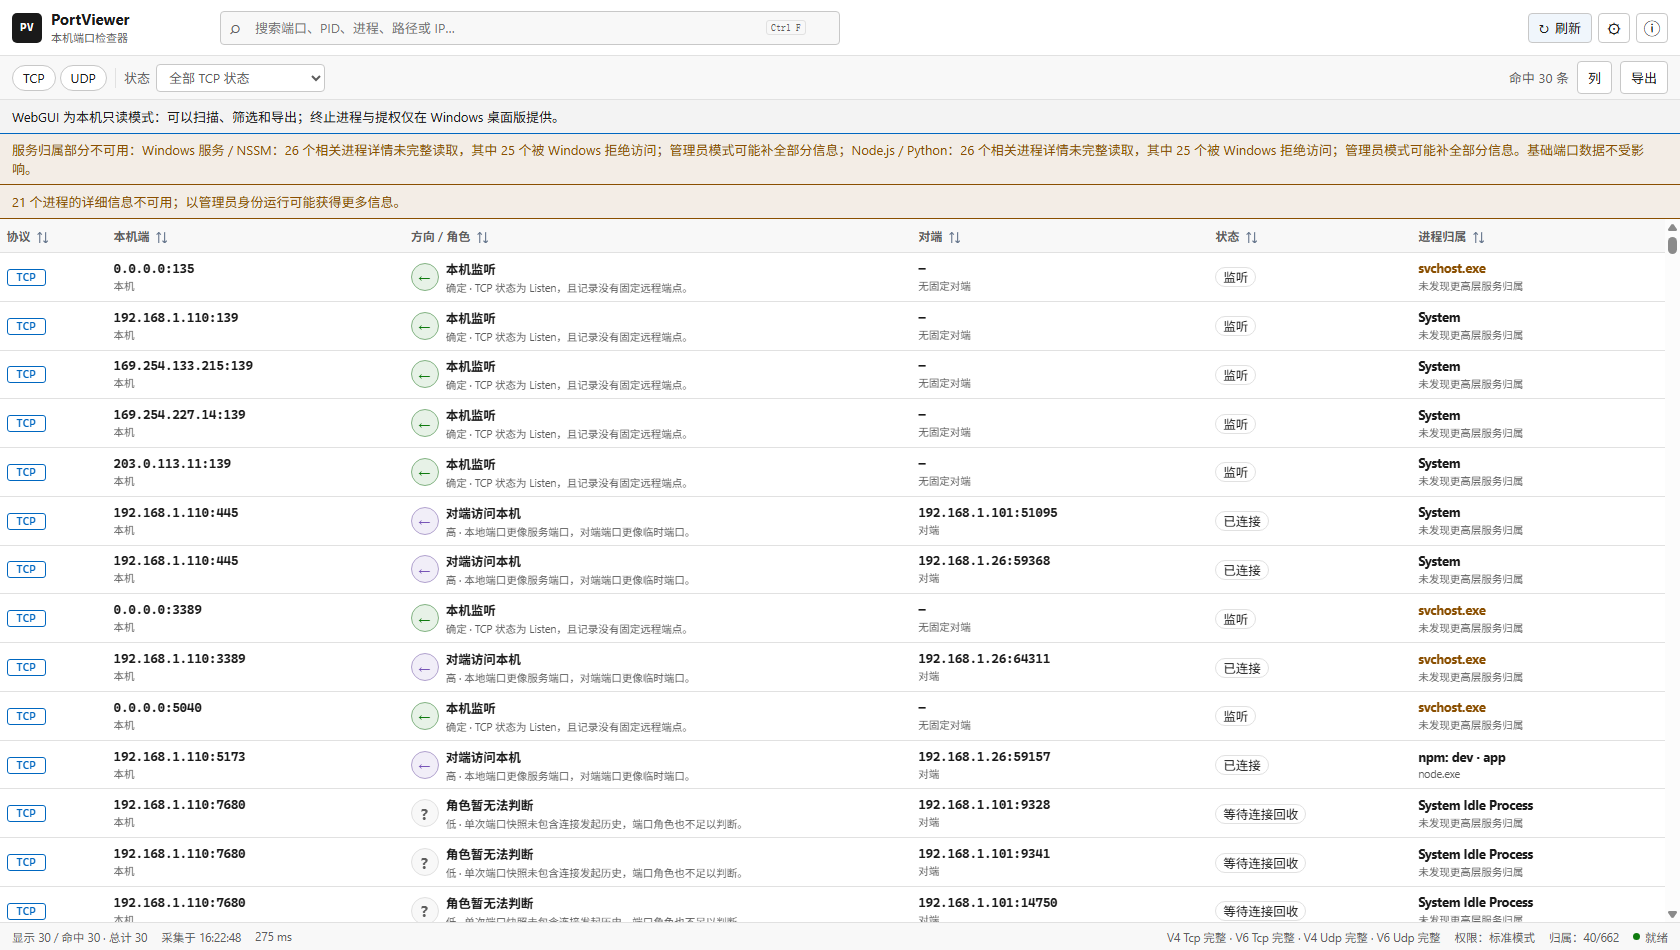
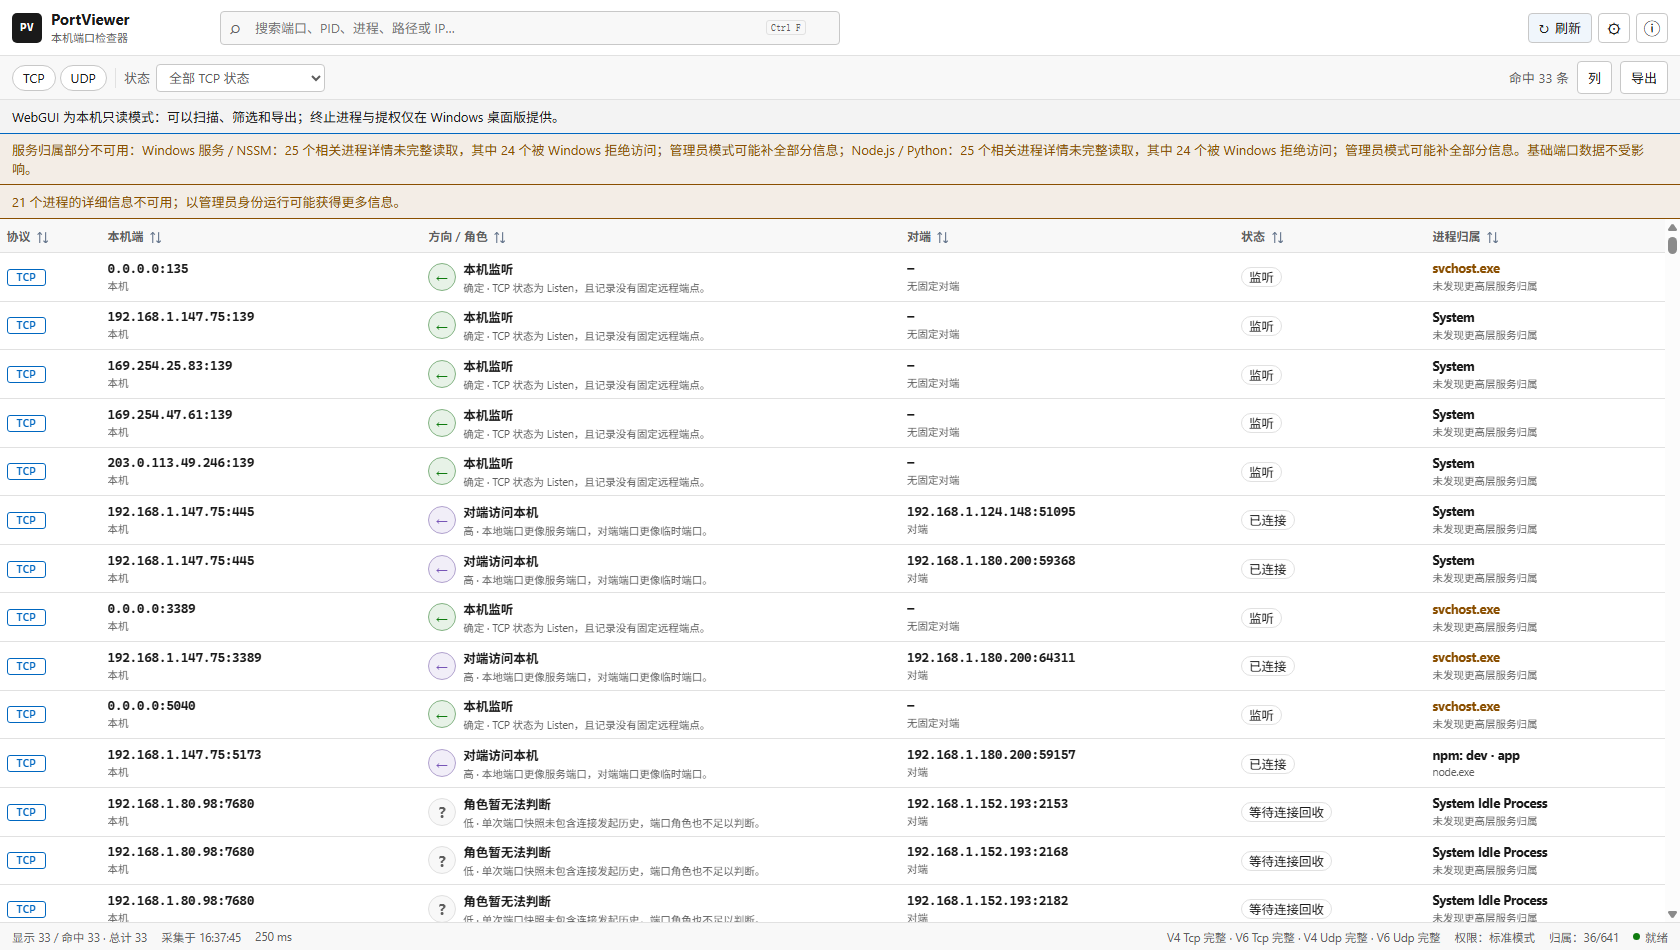
chore(public): 净化快照同步自 main@b79a01a
来源: main b79a01a9e5884f2b7e5deae1aa0d1b8f01632f78
剔除: docs/design docs/product docs/architecture docs/qa skills .vscode StartClaudeCode-Full.bat

diff --git a/README.zh-CN.md b/README.zh-CN.md
@@ -174,7 +174,7 @@ PortViewer/
 - 数据量达到设置上限时会截断显示并在状态栏及导出元数据中标记；
 - 生产发布仍需在 Windows 10/11、普通用户/管理员权限以及 WebView2 缺失场景完成实机验收。
 
-## 产品与设计文档
+## 延伸阅读
 
 - [WebGUI 部署指南](docs/webgui-deployment.md)
 - [局域网端口 API、CLI 与 MCP](docs/lan-port-api.md)
